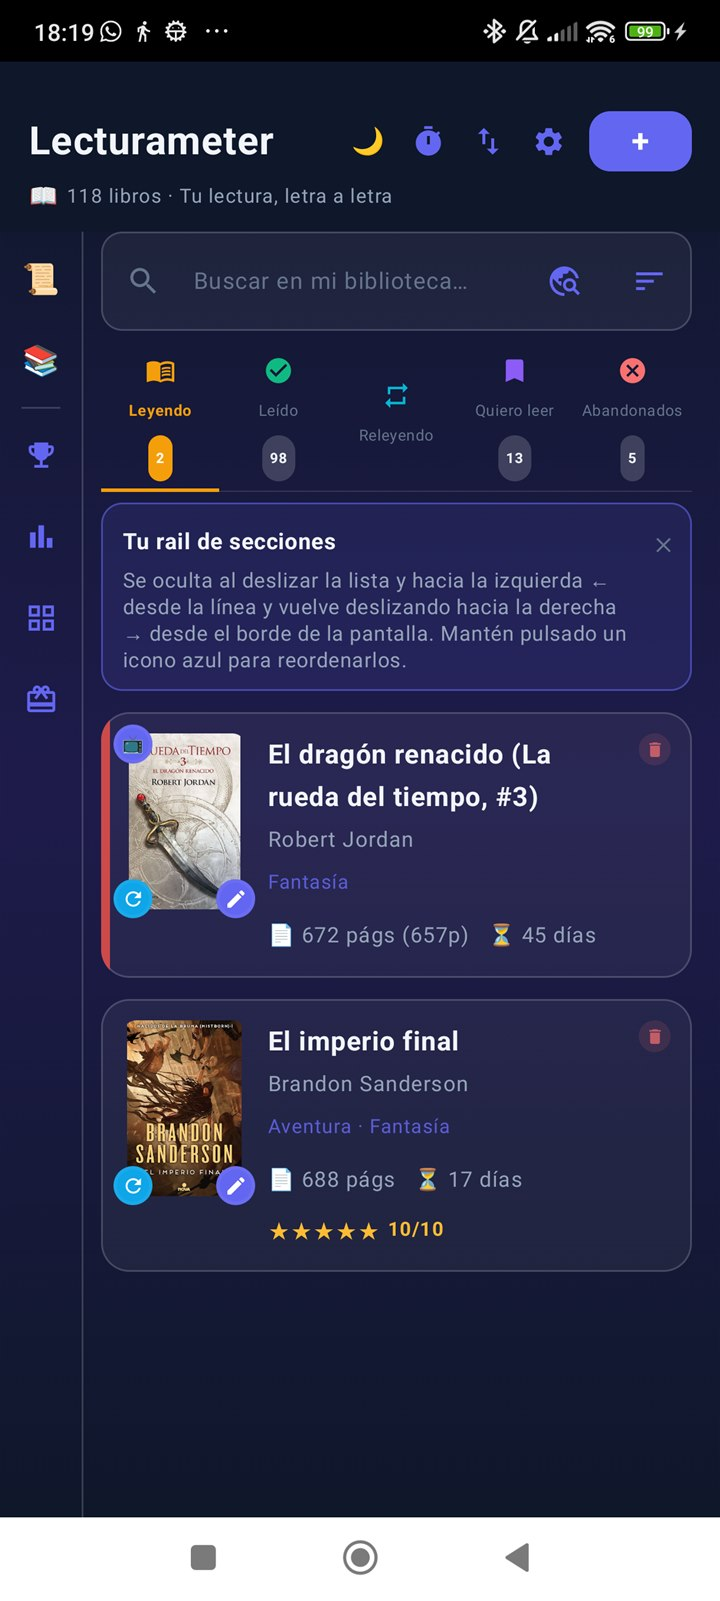
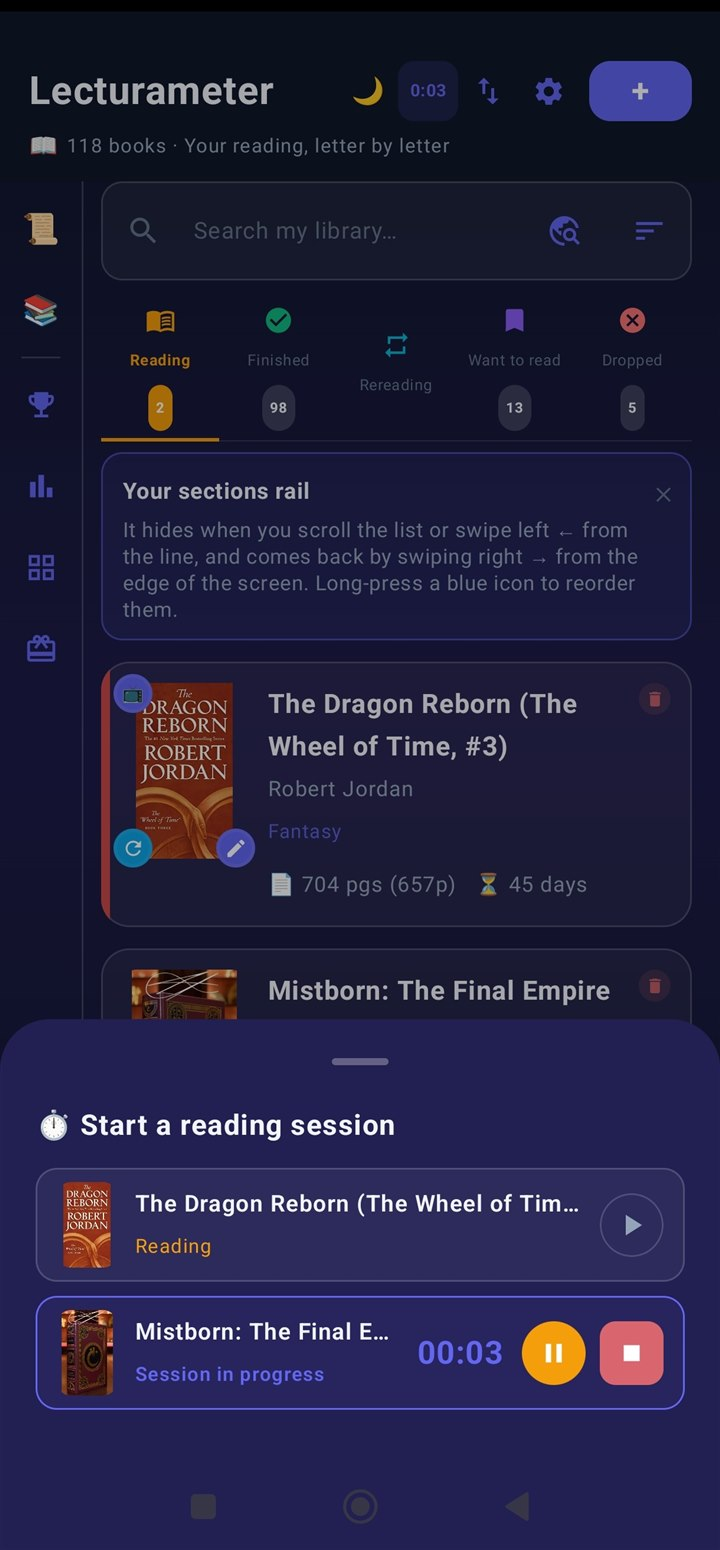
feat: capturas crono recortadas + fix altura gallery

diff --git a/index.html b/index.html
@@ -398,8 +398,8 @@
                         <p>Cada día con color según las páginas leídas. ¿Cuántos días sin leer tienes en mayo?</p>
                     </div>
                 </div>
-                <div class="gallery-phone" data-src="screen_timer_main_es.jpg?v=250718j">
-                    <img src="screen_timer_main_es.jpg?v=250718j" alt="Pantalla principal con cronómetro" width="720" height="1601" loading="lazy">
+                <div class="gallery-phone" data-src="screen_timer_main_es.jpg?v=250718k">
+                    <img src="screen_timer_main_es.jpg?v=250718k" alt="Pantalla principal con cronómetro" width="720" height="1546" loading="lazy">
                     <div class="gallery-caption">
                         <h3>El cronómetro integrado</h3>
                         <p>Pulsa el botón del crono y empieza a medir tu sesión de lectura. El tiempo se guarda automáticamente.</p>
@@ -817,8 +817,8 @@
                         <p>Each day coloured by pages read. How many days did you miss in May?</p>
                     </div>
                 </div>
-                <div class="gallery-phone" data-src="screen_timer_main_en.jpg?v=250718j">
-                    <img src="screen_timer_main_en.jpg?v=250718j" alt="Main screen with stopwatch" width="720" height="1601" loading="lazy">
+                <div class="gallery-phone" data-src="screen_timer_main_en.jpg?v=250718k">
+                    <img src="screen_timer_main_en.jpg?v=250718k" alt="Main screen with stopwatch" width="720" height="1550" loading="lazy">
                     <div class="gallery-caption">
                         <h3>The built-in stopwatch</h3>
                         <p>Tap the stopwatch button and start timing your reading session. Time is saved automatically.</p>
